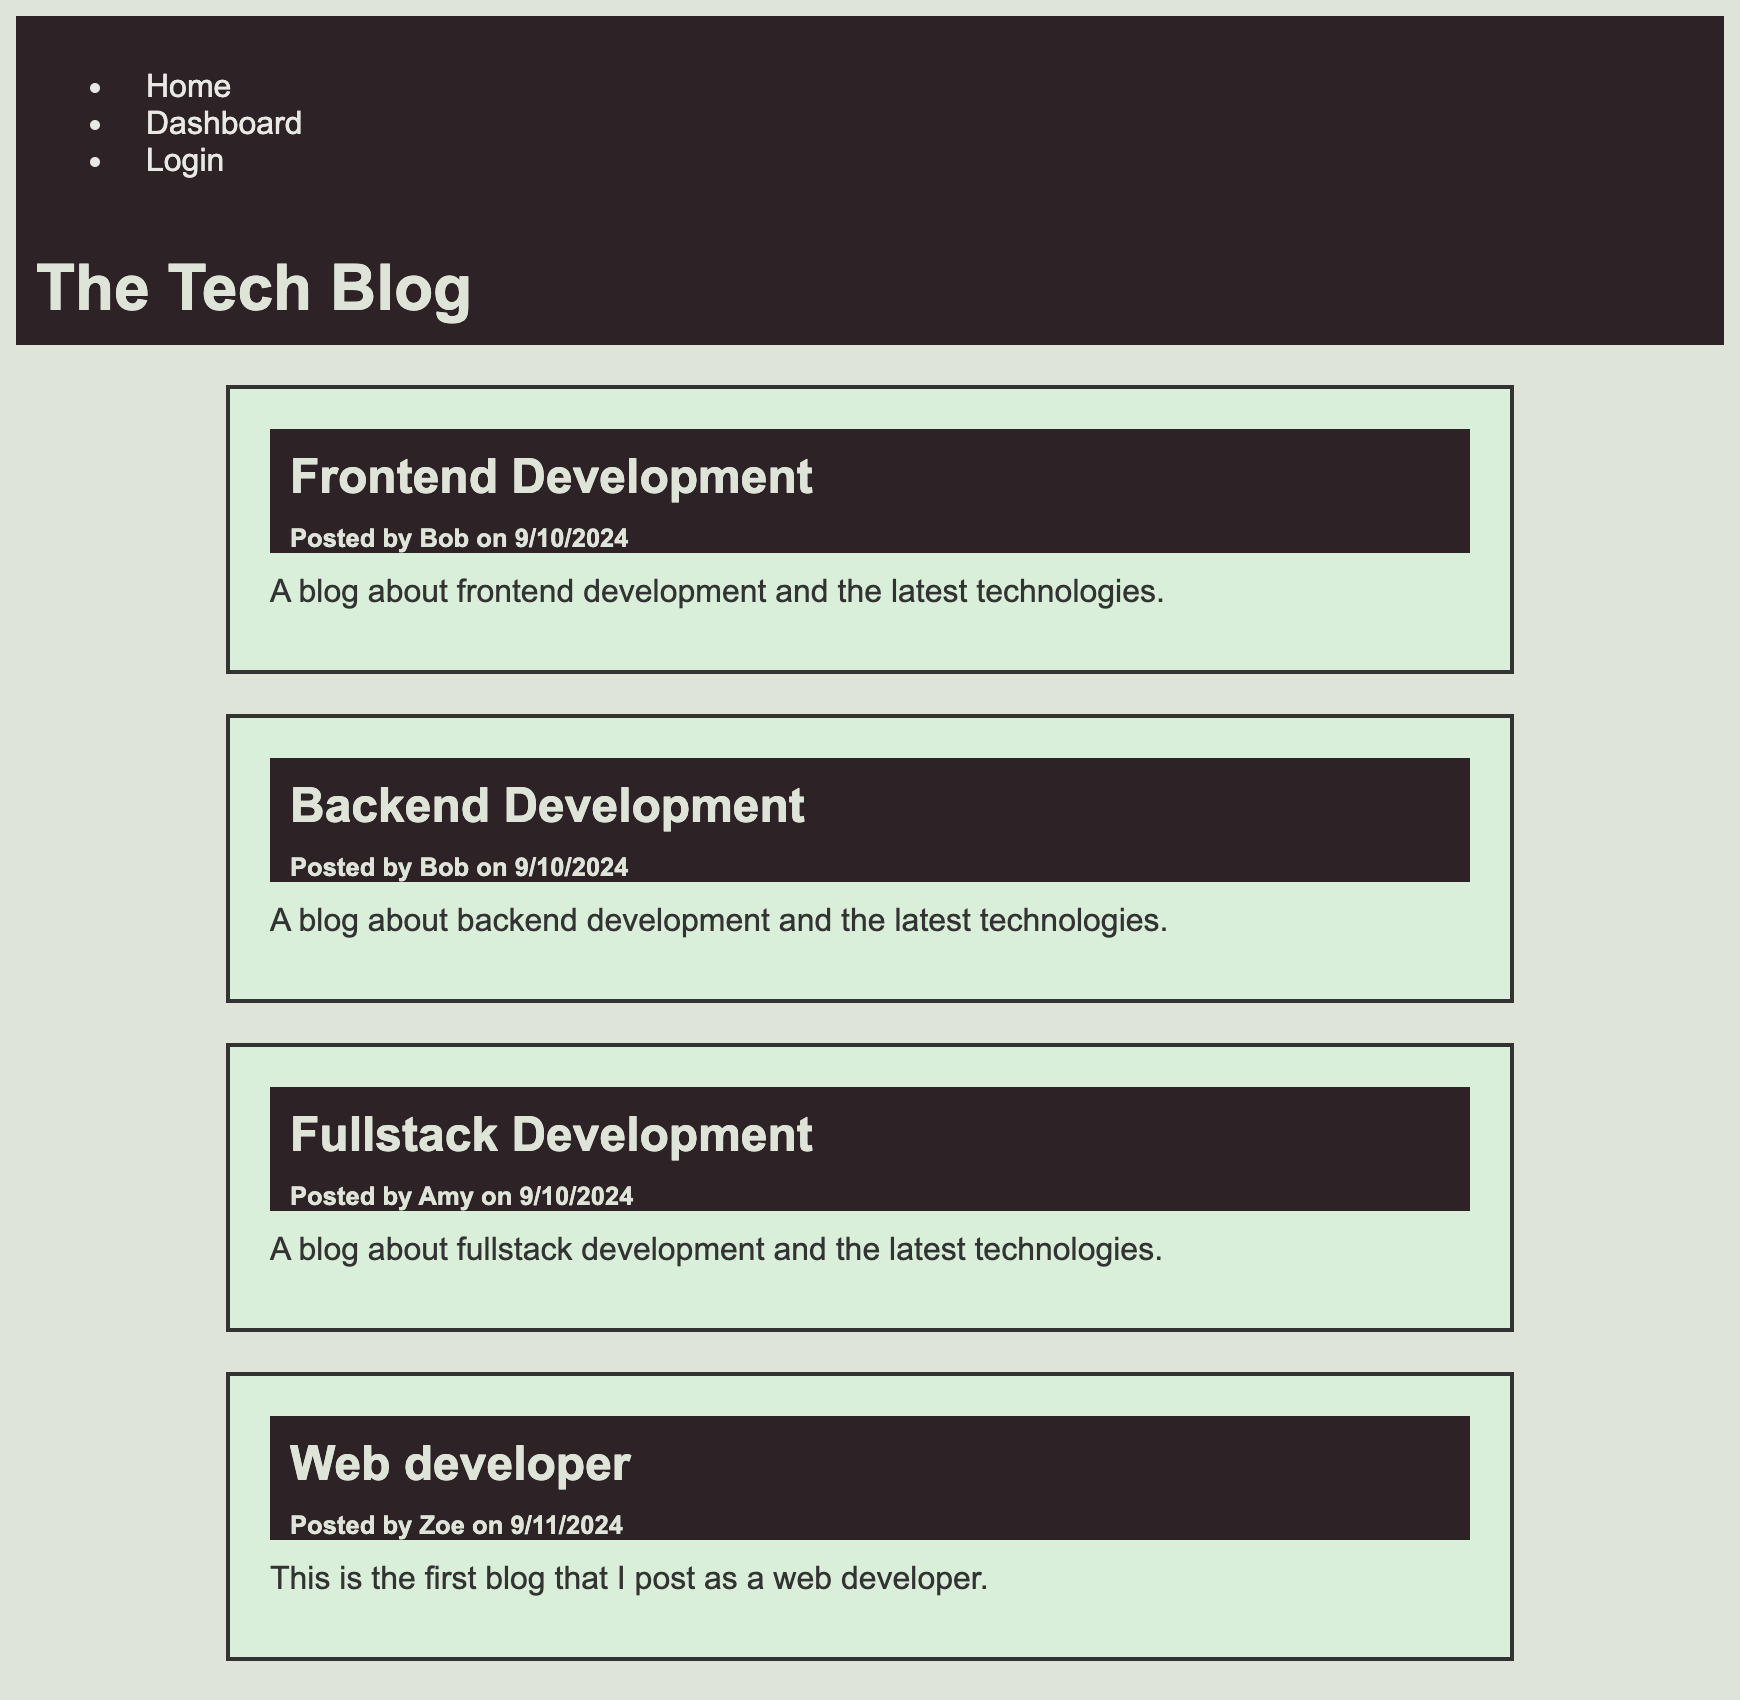
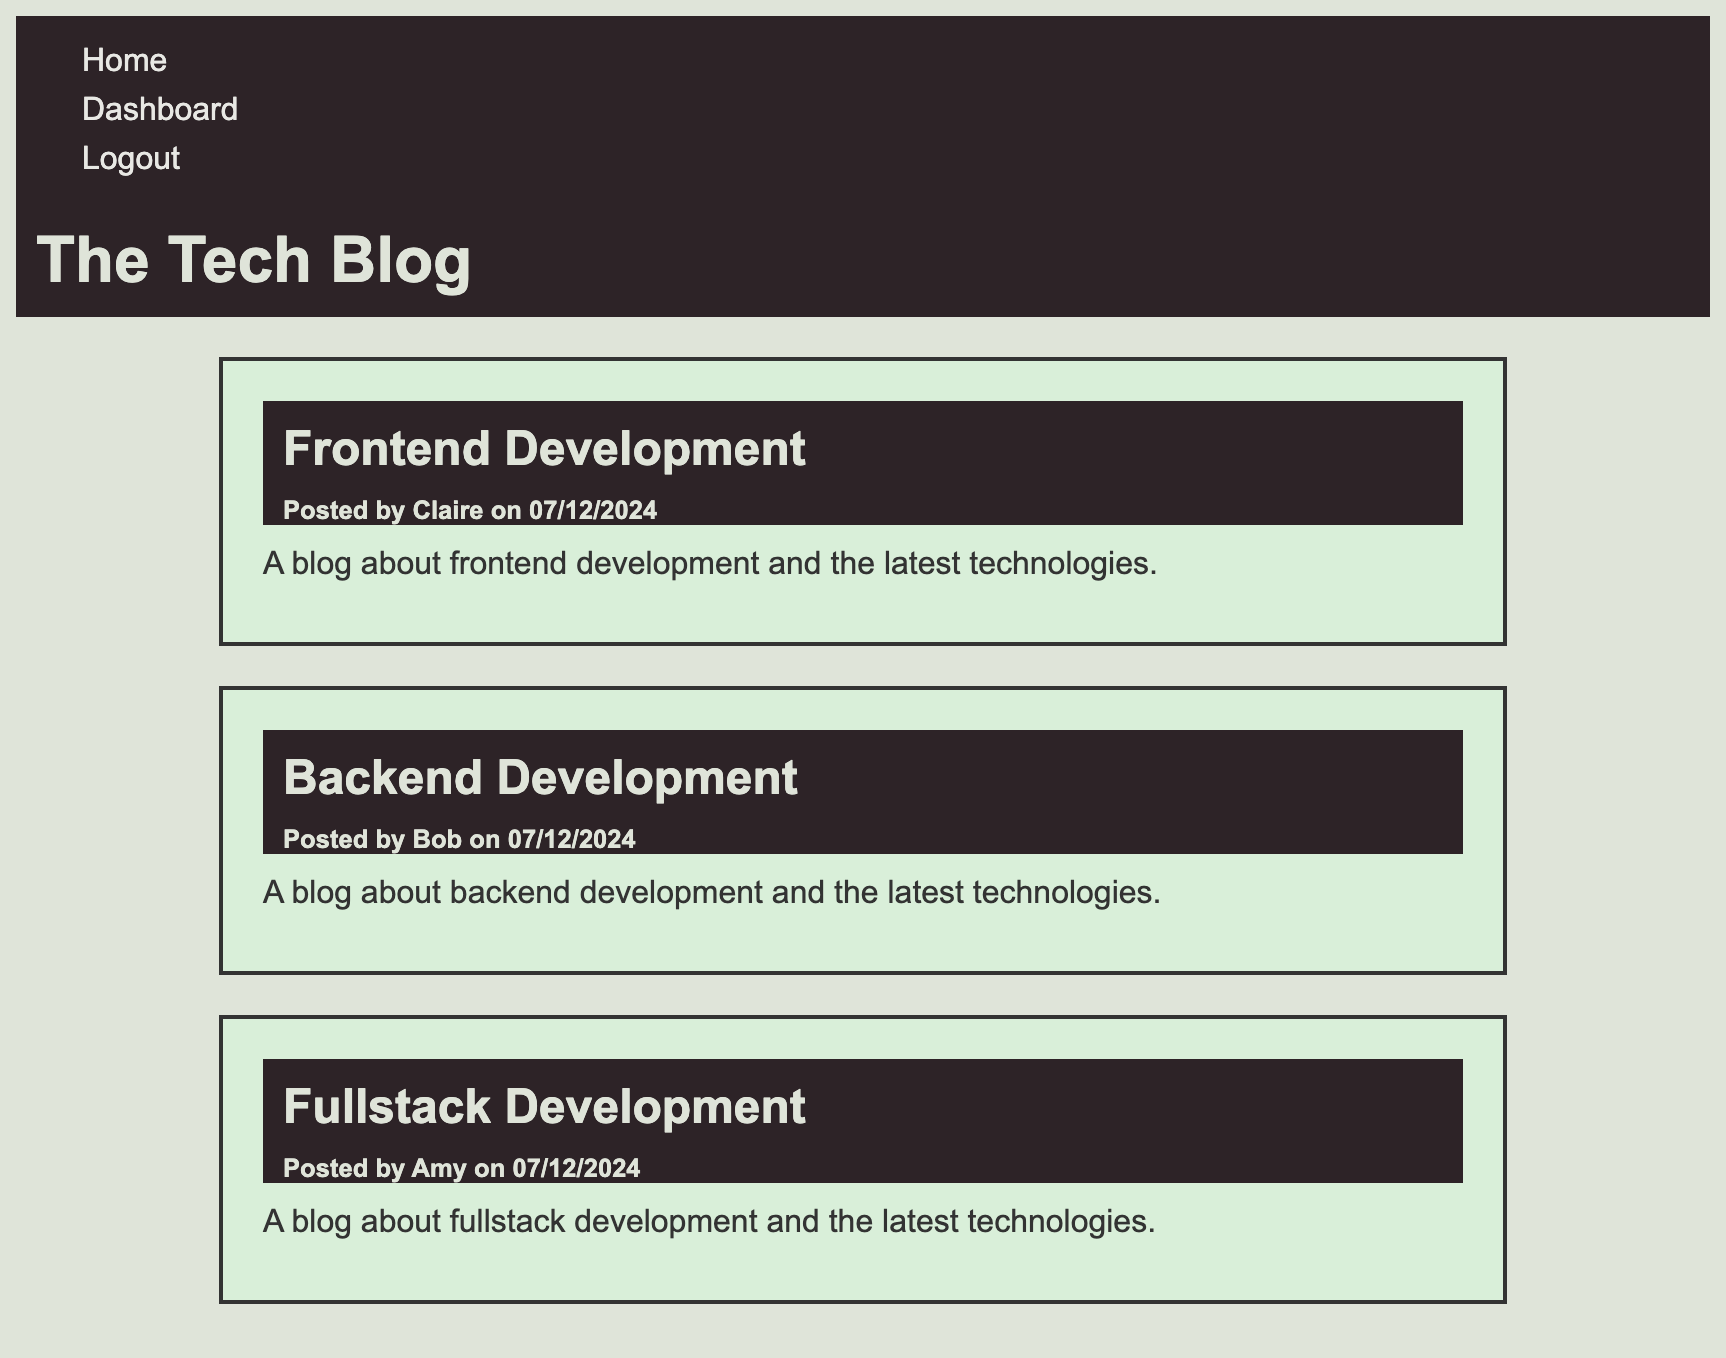
Update header and project pictures

diff --git a/src/components/Header.jsx b/src/components/Header.jsx
@@ -5,7 +5,7 @@ export default function Header() {
   return (
     <>
       <header>
-      <h1 id="header-name">Zoe</h1>
+      <h1 id="header-name">Wenli Zhong</h1>
       <Navigation />
       </header>
     </>

diff --git a/src/styles/Header.css b/src/styles/Header.css
@@ -8,7 +8,7 @@ header {
   background-color: var(--light);
 }
 
-@media screen and (max-width: 518px) {
+@media screen and (max-width: 647px) {
   header {
     display: flex;
     flex-direction: column;

diff --git a/src/styles/Navigation.css b/src/styles/Navigation.css
@@ -10,7 +10,7 @@ li {
   text-decoration: none;
 }
 
-@media screen and (max-width: 518px) {
+@media screen and (max-width: 647px) {
   li {
     display: block;
   }
